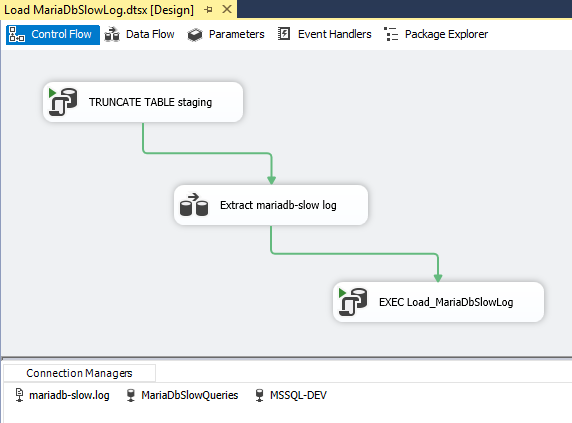
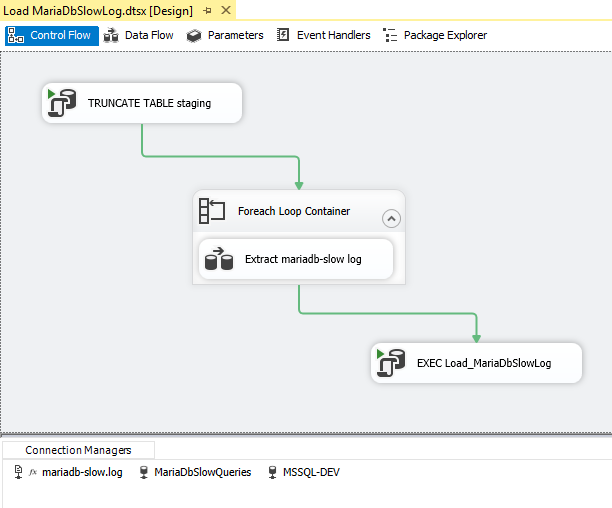
Added Power BI Stuff

Changed region(s): [[0.0594, 0.1537, 0.951, 0.7683], [0.0, 0.0, 1.0, 0.1229], [0.0, 0.8298, 1.0, 1.0]]

diff --git a/README.md b/README.md
@@ -12,7 +12,6 @@ to ‘optimise’ is one of those things.  I’ve been given this task, but no o
 MariaDb writes an entry into a ‘slow query log’ if a query takes more than a certain threshold.  The file size for
 our log for a database that is not really that busy is 7GB.  The network admin uses mysterious script to summarise the raw data but I decide to load the ‘slow query log’ itself to perform some analysis that way.
 
-
 ## Visual Studio Solution
 
 I created a Visual Studio Solution with two projects:
@@ -25,7 +24,7 @@ I created a Visual Studio Solution with two projects:
 ### Database Project
 
 This is not about Database Projects per se, but I can really recommend considering them.  You can put your databases into source control and all those other good things that come with that.
-In this project, I’ve created two tables and a stored procedure.
+In this project, I’ve created two schemas, one to hold the staging tables and stored procedure, and one to hold the results.
 
 ![ProjectDatabase](./images/ProjectDatabase.png)
 
@@ -51,7 +50,7 @@ The SSIS project has a single package to read in the text file.
 
 #### Control Flow
 
-The control flow clears the staging table, loads the text file into the staging table, and the stored procedure transforms it and loads it into the result table. 
+The control flow clears the staging table, loops through all log files in a temp directory and loads each file into the staging table.  The stored procedure processes the staging table and loads the results into the result table.
 
 ![SSISControlFlow](./images/SSISControlFlow.png)
 
@@ -92,6 +91,36 @@ And this is what the final result looks like after the stored procedure has run:
 
 ![RowsTableMariaDbSlowLog](./images/RowsTableMariaDbSlowLog.png)
 
-Now we can query the table to find out which queries took a long time, or which ones executed particularly often, etc.
+Now we can query the table to find out lot’s of interesting things.  Time to harness the power of Power BI.
 
-Beats a text file!
+## Power BI
+
+Here’s a report I through together.  Beats a text file, processed or unprocessed, is a starting point for us to find out where the pain points are.
+
+### Database Load
+
+This shows basic load on the database.  Top graphs shows the numbe of queries, the bottom graph shows the number of rows being returned.  We can see the sync running every half an hour.  You can also click on the graph and it will show the queries running at that time point.
+
+![PBI_1](./images/PBI_1.png)
+
+### High Cost Queries
+
+This shows the quick wins.  “High Cost” is defined as the gap between the number of rows examined vs. the number of rows return, i.e. those queries that could benefit from an index.  I’ve then multiplied this difference by the number of times the query ran to get a listing.  You can see a couple of queries that are really crying out for some love.
+
+![PBI_2](./images/PBI_2.png)
+
+### Long Running Queries
+
+Basically a listing of queries by running time.  You can then decide if the running time’s acceptable for what the query’s doing, i.e. backup jobs are at the top of the list.
+
+![PBI_3](./images/PBI_3.png)
+
+### Common Queries
+
+Basically a listing of queries by the number of times executed.  These are queries that the developers need to do something about.  The query at the top of the list sometimes runs more that 100 times a second.  We need to ask if that’s really necessary.  
+
+![PBI_4](./images/PBI_4.png)
+
+## Conclusion
+
+With a bit of work and investment we achieved insight to the performance of our unloved MariaDb.  We can present our findings in a highly visual way that everyone can understand thanks to Power BI, we have actionable results and can measure the improvement over time.
